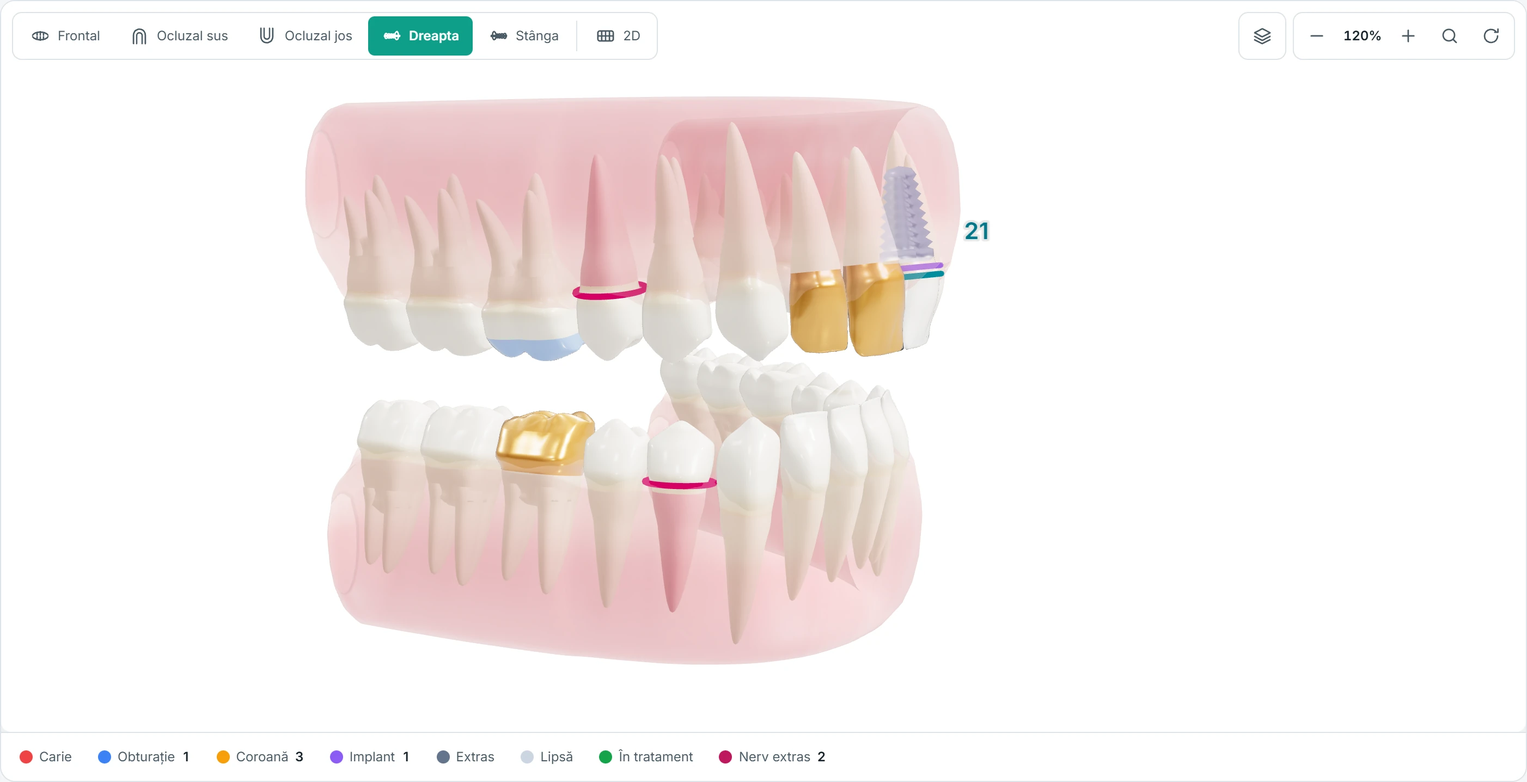
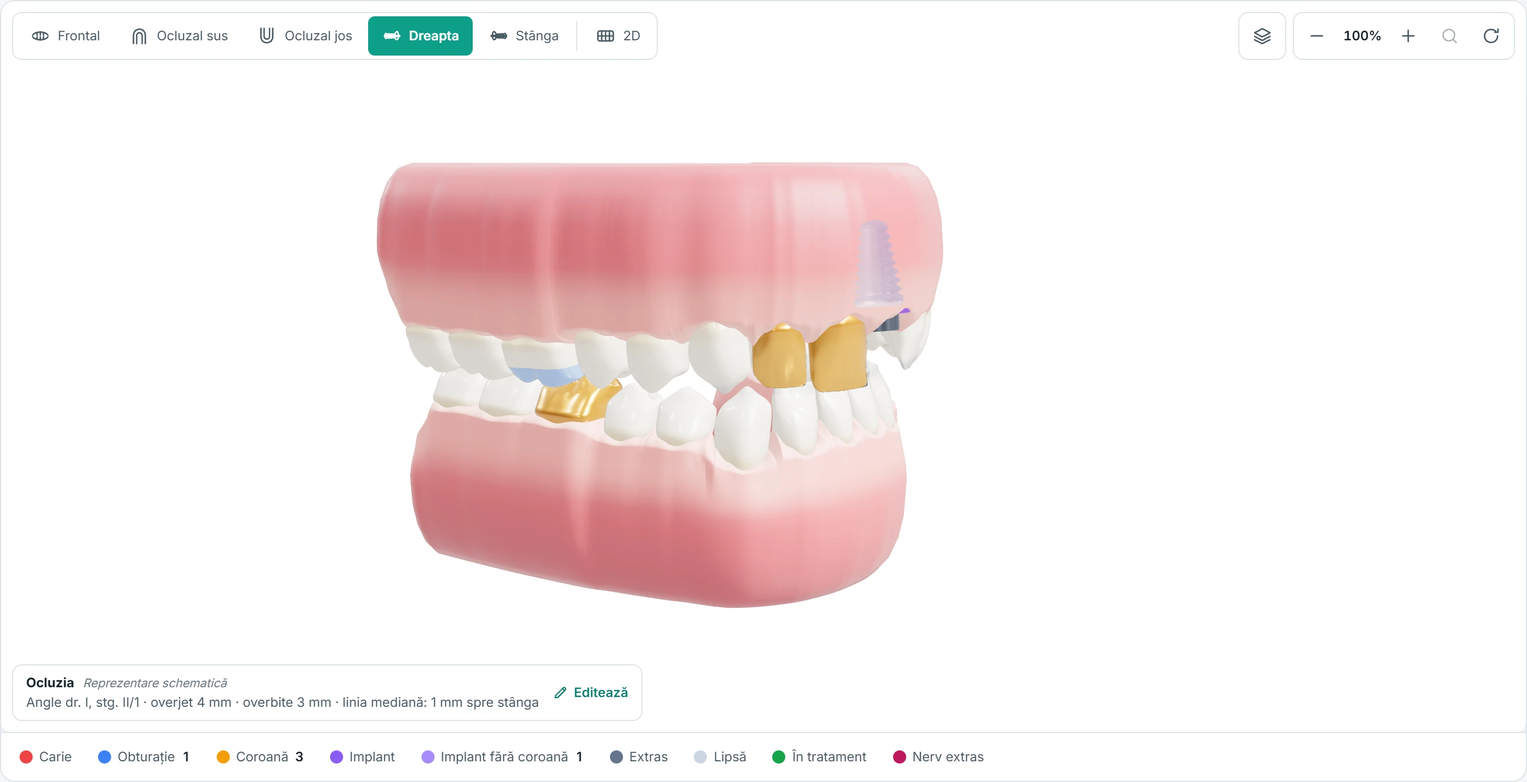
Site under DentPilot 2.12.0: occlusion in 3D on the home page and in the guide, frames reshot
Home, section 02: a fifth tile "Ocluzie in 3D" / "Окклюзия в 3D" (class Angle, overjet and overbite from the occlusal exam; with the "Ocluzie" layer the model shows schematically how the jaws close - no norm, no measurement promised); the grid takes five columns on desktop, 2+2+1 under 1020 px, one column on the phone. Details, "Programul evolueaza": a second sentence on smooth windows, menus and lists (2.10.x). Both texts are variant 1 of 2 and WAIT for Oleg's word.

Guide "Primii pasi" step 10 (RO + RU): the bite form is in the right panel of "Odontograma" while no tooth is chosen, the "Ocluzie" layer shows the jaws schematically, the "Ocluzia" line in "Date pacient" leads to the same form (as in 2.12.0, OcluziaCard / PatientCardScreen).

Frames from a stand of the demo seed on 2.12.0 (bite record in the stand's own database, not in Git): app-odontograma (the fisa tab, 3D view Dreapta, layer Ocluzie, form Ocluzia in the Dintele panel; 2880x1545) and app-odontograma-s (3D card crop with the "Ocluzia - Reprezentare schematica" strip; 2804x1436); guide-sms and guide-sms-rechemari ("ultima verificare" as dd.mm.yyyy HH:MM, footer v2.12.0; 2200x1380). Alt texts follow the new frames. sitemap lastmod 2026-11-08 for the changed pages.

Built by design/site-build/build.py, check_labels green (131 labels). Not published.

Changed region(s): [[0.1862, 0.1226, 0.6516, 0.8886], [0.0, 0.8579, 0.3413, 0.9192], [0.2792, 0.9499, 0.6516, 0.9805]]

diff --git a/ru.html b/ru.html
@@ -129,6 +129,7 @@ header{position:sticky;top:0;z-index:30;background:rgba(246,248,247,.92);backdro
 .dark .lead{color:var(--on-deep)}
 .dark .frame{border-color:rgba(255,255,255,.18);box-shadow:0 30px 80px rgba(0,0,0,.35)}
 .feat4{display:grid;grid-template-columns:repeat(4,minmax(0,1fr));gap:28px;margin-top:44px}
+.feat4.n5{grid-template-columns:repeat(5,minmax(0,1fr));gap:24px}
 .feat4 svg{color:var(--mint)}
 .feat4 h3{margin:14px 0 6px;font-size:19px;font-weight:600;color:#fff}
 .feat4 p{margin:0;font-size:16px;color:var(--on-deep)}
@@ -300,7 +301,8 @@ footer{padding:48px 0 32px;background:var(--bg)}
 .sec{padding:80px 0}.hero{padding:56px 0 0}
 .hero-top,.head2,.two,.phead,.demo-grid,.faq-grid{grid-template-columns:minmax(0,1fr)}
 .head2{margin-bottom:40px}
-.feat4,.steps4,.det,.req .det{grid-template-columns:repeat(2,minmax(0,1fr))}
+.feat4,.feat4.n5,.steps4,.det,.req .det{grid-template-columns:repeat(2,minmax(0,1fr))}
+.feat4.n5>:last-child:nth-child(odd){grid-column:1/-1}
 .pricepanel{padding:36px}.ptab-card{padding:8px 18px 18px}
 .law .two .scheme{order:2}
 }
@@ -315,7 +317,7 @@ footer{padding:48px 0 32px;background:var(--bg)}
 .tabs{flex-wrap:wrap}.tabs button{flex:1 1 40%}
 .crop img{width:185%;max-width:none;height:100%;object-fit:cover;object-position:left top;transform:translateX(var(--sx,0%))}
 .benefits{flex-direction:column;padding-top:24px}
-.feat4,.steps4,.det,.req .det,.pair{grid-template-columns:minmax(0,1fr)}
+.feat4,.feat4.n5,.steps4,.det,.req .det,.pair{grid-template-columns:minmax(0,1fr)}
 .sms{grid-template-columns:minmax(0,1fr);padding:22px}
 .r{grid-template-columns:minmax(0,1fr)}
 .item{grid-template-columns:36px minmax(0,1fr)}.item .ic{display:none}
@@ -381,7 +383,7 @@ footer{padding:48px 0 32px;background:var(--bg)}
     </div>
     <div class="show">
       <div class="show-top">
-        <div class="tabs" role="tablist" aria-label="Экраны DentPilot"><button type="button" role="tab" id="tab-calendar" aria-selected="true" aria-controls="shot-panel" tabindex="0" data-src="shots/app-calendar.webp" data-alt="Календарь дня со всеми врачами в DentPilot" data-sx="-8%">Календарь дня</button><button type="button" role="tab" id="tab-odontograma" aria-selected="false" aria-controls="shot-panel" tabindex="-1" data-src="shots/app-odontograma.webp" data-alt="3D-одонтограмма в DentPilot: режимы работы, зуб 21 с имплантом, панель зуба и сохранение всех правок разом" data-sx="-23%">3D-одонтограмма</button><button type="button" role="tab" id="tab-fisa" aria-selected="false" aria-controls="shot-panel" tabindex="-1" data-src="shots/app-fisa.webp" data-alt="Карточка пациента в DentPilot: данные, медицинские предупреждения, история" data-sx="-8%">Карточка пациента</button><button type="button" role="tab" id="tab-statistici" aria-selected="false" aria-controls="shot-panel" tabindex="-1" data-src="shots/app-statistici.webp" data-alt="Статистика клиники в DentPilot: выручка, записи, явка, загрузка" data-sx="-8%">Статистика</button></div>
+        <div class="tabs" role="tablist" aria-label="Экраны DentPilot"><button type="button" role="tab" id="tab-calendar" aria-selected="true" aria-controls="shot-panel" tabindex="0" data-src="shots/app-calendar.webp" data-alt="Календарь дня со всеми врачами в DentPilot" data-sx="-8%">Календарь дня</button><button type="button" role="tab" id="tab-odontograma" aria-selected="false" aria-controls="shot-panel" tabindex="-1" data-src="shots/app-odontograma.webp" data-alt="3D-одонтограмма в DentPilot: режимы работы, слой «Ocluzie» с положением челюстей и осмотр прикуса в панели справа" data-sx="-23%">3D-одонтограмма</button><button type="button" role="tab" id="tab-fisa" aria-selected="false" aria-controls="shot-panel" tabindex="-1" data-src="shots/app-fisa.webp" data-alt="Карточка пациента в DentPilot: данные, медицинские предупреждения, история" data-sx="-8%">Карточка пациента</button><button type="button" role="tab" id="tab-statistici" aria-selected="false" aria-controls="shot-panel" tabindex="-1" data-src="shots/app-statistici.webp" data-alt="Статистика клиники в DentPilot: выручка, записи, явка, загрузка" data-sx="-8%">Статистика</button></div>
       </div>
       <figure class="frame crop" role="tabpanel" id="shot-panel" aria-labelledby="tab-calendar">
         <img id="shot" src="shots/app-calendar.webp" alt="Календарь дня со всеми врачами в DentPilot" width="2880" height="1545" style="--sx:-8%" fetchpriority="high">
@@ -409,8 +411,8 @@ footer{padding:48px 0 32px;background:var(--bg)}
 <section class="sec dark">
   <div class="wrap">
     <div class="head2"><div><div class="eb">02 / Наглядная клиническая картина</div><h2 class="h2">Не просто формула.<br>Полная картина в 3D.</h2></div><p class="lead">Выберите режим работы, отметьте зубы и сохраните всё разом. Одонтограмма синхронизирована с формулой FDI, планом лечения и формой 043/e; рядом — пародонтограмма, 6 точек на зуб.</p></div>
-    <figure class="frame crop"><img src="shots/app-odontograma-s.webp" alt="3D-одонтограмма в DentPilot, вид сбоку с корнями: имплант на 21, коронки, два депульпированных зуба" width="2804" height="1436" style="--sx:-23%" loading="lazy"></figure>
-    <div class="feat4"><div><svg width="26" height="26" viewBox="0 0 24 24" fill="none" stroke="currentColor" stroke-width="2" stroke-linecap="round" stroke-linejoin="round" aria-hidden="true"><path d="M12 3l9 5-9 5-9-5zM3 13l9 5 9-5"/></svg><h3>Восемь режимов работы</h3><p>Осмотр, кариес, реставрация, эндодонтия, пародонт, хирургия, имплант (с коронкой или без), протез — каждый показывает свои зубы.</p></div><div><svg width="26" height="26" viewBox="0 0 24 24" fill="none" stroke="currentColor" stroke-width="2" stroke-linecap="round" stroke-linejoin="round" aria-hidden="true"><path d="M5 12.5l4.5 4.5L19 7.5"/></svg><h3>Одно сохранение</h3><p>Отметьте несколько зубов, сразу увидьте изменения в 3D и сохраните всё разом.</p></div><div><svg width="26" height="26" viewBox="0 0 24 24" fill="none" stroke="currentColor" stroke-width="2" stroke-linecap="round" stroke-linejoin="round" aria-hidden="true"><path d="M12 21a8 8 0 100-16 8 8 0 000 16zM12 9v4l2 2M10 2h4"/></svg><h3>Сравнить с визитом</h3><p>Что изменилось с прошлого визита — было и стало, в 2D и 3D.</p></div><div><svg width="26" height="26" viewBox="0 0 24 24" fill="none" stroke="currentColor" stroke-width="2" stroke-linecap="round" stroke-linejoin="round" aria-hidden="true"><path d="M20 12a8 8 0 11-2.3-5.7M20 4v5h-5"/></svg><h3>Зубы по моделям</h3><p>Эмаль, корни и десна по собственным моделям; пять ракурсов, корни по запросу.</p></div></div>
+    <figure class="frame crop"><img src="shots/app-odontograma-s.webp" alt="3D-одонтограмма в DentPilot, вид справа со слоем «Ocluzie»: схематичное положение челюстей, коронки и имплант" width="2804" height="1436" style="--sx:-23%" loading="lazy"></figure>
+    <div class="feat4 n5"><div><svg width="26" height="26" viewBox="0 0 24 24" fill="none" stroke="currentColor" stroke-width="2" stroke-linecap="round" stroke-linejoin="round" aria-hidden="true"><path d="M12 3l9 5-9 5-9-5zM3 13l9 5 9-5"/></svg><h3>Восемь режимов работы</h3><p>Осмотр, кариес, реставрация, эндодонтия, пародонт, хирургия, имплант (с коронкой или без), протез — каждый показывает свои зубы.</p></div><div><svg width="26" height="26" viewBox="0 0 24 24" fill="none" stroke="currentColor" stroke-width="2" stroke-linecap="round" stroke-linejoin="round" aria-hidden="true"><path d="M5 12.5l4.5 4.5L19 7.5"/></svg><h3>Одно сохранение</h3><p>Отметьте несколько зубов, сразу увидьте изменения в 3D и сохраните всё разом.</p></div><div><svg width="26" height="26" viewBox="0 0 24 24" fill="none" stroke="currentColor" stroke-width="2" stroke-linecap="round" stroke-linejoin="round" aria-hidden="true"><path d="M12 21a8 8 0 100-16 8 8 0 000 16zM12 9v4l2 2M10 2h4"/></svg><h3>Сравнить с визитом</h3><p>Что изменилось с прошлого визита — было и стало, в 2D и 3D.</p></div><div><svg width="26" height="26" viewBox="0 0 24 24" fill="none" stroke="currentColor" stroke-width="2" stroke-linecap="round" stroke-linejoin="round" aria-hidden="true"><path d="M20 12a8 8 0 11-2.3-5.7M20 4v5h-5"/></svg><h3>Зубы по моделям</h3><p>Эмаль, корни и десна по собственным моделям; пять ракурсов, корни по запросу.</p></div><div><svg width="26" height="26" viewBox="0 0 24 24" fill="none" stroke="currentColor" stroke-width="2" stroke-linecap="round" stroke-linejoin="round" aria-hidden="true"><path d="M4 9.5c2.5-4.5 13.5-4.5 16 0M4 14.5c2.5 4.5 13.5 4.5 16 0M7 12h10"/></svg><h3>Окклюзия в 3D</h3><p>Класс Angle, overjet и overbite из осмотра прикуса: со слоем «Ocluzie» модель схематично показывает, как смыкаются челюсти.</p></div></div>
   </div>
 </section>
 
@@ -433,7 +435,7 @@ footer{padding:48px 0 32px;background:var(--bg)}
 <section class="sec" style="padding-top:0">
   <div class="wrap">
     <div class="det-head"><h2 class="h3">Детали, из которых складывается порядок</h2><span class="det-note">Все основные функции — в подписке</span></div>
-    <div class="det"><div class="c"><svg width="24" height="24" viewBox="0 0 24 24" fill="none" stroke="currentColor" stroke-width="2" stroke-linecap="round" stroke-linejoin="round" aria-hidden="true"><path d="M3 5h18v11H3zM8 20h8M12 16v4"/></svg><h3>Второй компьютер</h3><p>Регистратура и кабинет работают в одном журнале по сети клиники.</p></div><div class="c"><svg width="24" height="24" viewBox="0 0 24 24" fill="none" stroke="currentColor" stroke-width="2" stroke-linecap="round" stroke-linejoin="round" aria-hidden="true"><path d="M12 3l8 3v6c0 4.5-3.4 8.2-8 9-4.6-.8-8-4.5-8-9V6z"/></svg><h3>У каждого — своя роль</h3><p>Директор, регистратура и врач. У каждого свой PIN и журнал доступа.</p></div><div class="c"><svg width="24" height="24" viewBox="0 0 24 24" fill="none" stroke="currentColor" stroke-width="2" stroke-linecap="round" stroke-linejoin="round" aria-hidden="true"><path d="M9 4h6v3H9zM7 5.5H5v15h14v-15h-2M9 12h6M9 16h4"/></svg><h3>Анамнез без пробелов</h3><p>12 заболеваний или «ничего из перечисленного», аллергии и лекарства. Печать на языке пациента.</p></div><div class="c"><svg width="24" height="24" viewBox="0 0 24 24" fill="none" stroke="currentColor" stroke-width="2" stroke-linecap="round" stroke-linejoin="round" aria-hidden="true"><path d="M4 5h16v14H4zM4 15l4-4 4 4 3-3 5 5"/></svg><h3>Документы и снимки</h3><p>Снимки, согласия, направления — прикреплены к карточке, с галереей.</p></div><div class="c"><svg width="24" height="24" viewBox="0 0 24 24" fill="none" stroke="currentColor" stroke-width="2" stroke-linecap="round" stroke-linejoin="round" aria-hidden="true"><path d="M4 20h4L19 9l-4-4L4 16z"/></svg><h3>Журнал посещений</h3><p>Жалобы, статус, диагноз, лечение — по рубрикам формы 043/e.</p></div><div class="c"><svg width="24" height="24" viewBox="0 0 24 24" fill="none" stroke="currentColor" stroke-width="2" stroke-linecap="round" stroke-linejoin="round" aria-hidden="true"><path d="M20 12a8 8 0 11-2.3-5.7M20 4v5h-5"/></svg><h3>Программа развивается</h3><p>Обновления приходят автоматически и входят в подписку.</p></div></div>
+    <div class="det"><div class="c"><svg width="24" height="24" viewBox="0 0 24 24" fill="none" stroke="currentColor" stroke-width="2" stroke-linecap="round" stroke-linejoin="round" aria-hidden="true"><path d="M3 5h18v11H3zM8 20h8M12 16v4"/></svg><h3>Второй компьютер</h3><p>Регистратура и кабинет работают в одном журнале по сети клиники.</p></div><div class="c"><svg width="24" height="24" viewBox="0 0 24 24" fill="none" stroke="currentColor" stroke-width="2" stroke-linecap="round" stroke-linejoin="round" aria-hidden="true"><path d="M12 3l8 3v6c0 4.5-3.4 8.2-8 9-4.6-.8-8-4.5-8-9V6z"/></svg><h3>У каждого — своя роль</h3><p>Директор, регистратура и врач. У каждого свой PIN и журнал доступа.</p></div><div class="c"><svg width="24" height="24" viewBox="0 0 24 24" fill="none" stroke="currentColor" stroke-width="2" stroke-linecap="round" stroke-linejoin="round" aria-hidden="true"><path d="M9 4h6v3H9zM7 5.5H5v15h14v-15h-2M9 12h6M9 16h4"/></svg><h3>Анамнез без пробелов</h3><p>12 заболеваний или «ничего из перечисленного», аллергии и лекарства. Печать на языке пациента.</p></div><div class="c"><svg width="24" height="24" viewBox="0 0 24 24" fill="none" stroke="currentColor" stroke-width="2" stroke-linecap="round" stroke-linejoin="round" aria-hidden="true"><path d="M4 5h16v14H4zM4 15l4-4 4 4 3-3 5 5"/></svg><h3>Документы и снимки</h3><p>Снимки, согласия, направления — прикреплены к карточке, с галереей.</p></div><div class="c"><svg width="24" height="24" viewBox="0 0 24 24" fill="none" stroke="currentColor" stroke-width="2" stroke-linecap="round" stroke-linejoin="round" aria-hidden="true"><path d="M4 20h4L19 9l-4-4L4 16z"/></svg><h3>Журнал посещений</h3><p>Жалобы, статус, диагноз, лечение — по рубрикам формы 043/e.</p></div><div class="c"><svg width="24" height="24" viewBox="0 0 24 24" fill="none" stroke="currentColor" stroke-width="2" stroke-linecap="round" stroke-linejoin="round" aria-hidden="true"><path d="M20 12a8 8 0 11-2.3-5.7M20 4v5h-5"/></svg><h3>Программа развивается</h3><p>Обновления приходят автоматически и входят в подписку. Окна, меню и списки появляются плавно, без скачков.</p></div></div>
     <div class="sms">
       <span class="ic"><svg width="24" height="24" viewBox="0 0 24 24" fill="none" stroke="currentColor" stroke-width="2" stroke-linecap="round" stroke-linejoin="round" aria-hidden="true"><path d="M4 5h16v11H9l-5 4z"/></svg></span>
       <div><h3>SMS-напоминания</h3><p>Накануне и в день визита, от имени клиники, — и напоминание о плановом контроле из Rechemări, кнопкой или автоматически.</p></div>

diff --git a/index.html b/index.html
@@ -129,6 +129,7 @@ header{position:sticky;top:0;z-index:30;background:rgba(246,248,247,.92);backdro
 .dark .lead{color:var(--on-deep)}
 .dark .frame{border-color:rgba(255,255,255,.18);box-shadow:0 30px 80px rgba(0,0,0,.35)}
 .feat4{display:grid;grid-template-columns:repeat(4,minmax(0,1fr));gap:28px;margin-top:44px}
+.feat4.n5{grid-template-columns:repeat(5,minmax(0,1fr));gap:24px}
 .feat4 svg{color:var(--mint)}
 .feat4 h3{margin:14px 0 6px;font-size:19px;font-weight:600;color:#fff}
 .feat4 p{margin:0;font-size:16px;color:var(--on-deep)}
@@ -300,7 +301,8 @@ footer{padding:48px 0 32px;background:var(--bg)}
 .sec{padding:80px 0}.hero{padding:56px 0 0}
 .hero-top,.head2,.two,.phead,.demo-grid,.faq-grid{grid-template-columns:minmax(0,1fr)}
 .head2{margin-bottom:40px}
-.feat4,.steps4,.det,.req .det{grid-template-columns:repeat(2,minmax(0,1fr))}
+.feat4,.feat4.n5,.steps4,.det,.req .det{grid-template-columns:repeat(2,minmax(0,1fr))}
+.feat4.n5>:last-child:nth-child(odd){grid-column:1/-1}
 .pricepanel{padding:36px}.ptab-card{padding:8px 18px 18px}
 .law .two .scheme{order:2}
 }
@@ -315,7 +317,7 @@ footer{padding:48px 0 32px;background:var(--bg)}
 .tabs{flex-wrap:wrap}.tabs button{flex:1 1 40%}
 .crop img{width:185%;max-width:none;height:100%;object-fit:cover;object-position:left top;transform:translateX(var(--sx,0%))}
 .benefits{flex-direction:column;padding-top:24px}
-.feat4,.steps4,.det,.req .det,.pair{grid-template-columns:minmax(0,1fr)}
+.feat4,.feat4.n5,.steps4,.det,.req .det,.pair{grid-template-columns:minmax(0,1fr)}
 .sms{grid-template-columns:minmax(0,1fr);padding:22px}
 .r{grid-template-columns:minmax(0,1fr)}
 .item{grid-template-columns:36px minmax(0,1fr)}.item .ic{display:none}
@@ -381,7 +383,7 @@ footer{padding:48px 0 32px;background:var(--bg)}
     </div>
     <div class="show">
       <div class="show-top">
-        <div class="tabs" role="tablist" aria-label="Ecrane DentPilot"><button type="button" role="tab" id="tab-calendar" aria-selected="true" aria-controls="shot-panel" tabindex="0" data-src="shots/app-calendar.webp" data-alt="Calendarul zilei cu toți medicii în DentPilot" data-sx="-8%">Calendarul zilei</button><button type="button" role="tab" id="tab-odontograma" aria-selected="false" aria-controls="shot-panel" tabindex="-1" data-src="shots/app-odontograma.webp" data-alt="Odontograma 3D în DentPilot: moduri de lucru, dintele 21 cu implant, panoul dintelui și salvarea tuturor modificărilor odată" data-sx="-23%">Odontogramă 3D</button><button type="button" role="tab" id="tab-fisa" aria-selected="false" aria-controls="shot-panel" tabindex="-1" data-src="shots/app-fisa.webp" data-alt="Fișa pacientului în DentPilot: date, atenționări medicale, istoric" data-sx="-8%">Fișa pacientului</button><button type="button" role="tab" id="tab-statistici" aria-selected="false" aria-controls="shot-panel" tabindex="-1" data-src="shots/app-statistici.webp" data-alt="Statisticile clinicii în DentPilot: încasări, programări, prezență, ocupare" data-sx="-8%">Statistici</button></div>
+        <div class="tabs" role="tablist" aria-label="Ecrane DentPilot"><button type="button" role="tab" id="tab-calendar" aria-selected="true" aria-controls="shot-panel" tabindex="0" data-src="shots/app-calendar.webp" data-alt="Calendarul zilei cu toți medicii în DentPilot" data-sx="-8%">Calendarul zilei</button><button type="button" role="tab" id="tab-odontograma" aria-selected="false" aria-controls="shot-panel" tabindex="-1" data-src="shots/app-odontograma.webp" data-alt="Odontograma 3D în DentPilot: moduri de lucru, stratul «Ocluzie» cu poziția maxilarelor și examenul ocluzal în panoul din dreapta" data-sx="-23%">Odontogramă 3D</button><button type="button" role="tab" id="tab-fisa" aria-selected="false" aria-controls="shot-panel" tabindex="-1" data-src="shots/app-fisa.webp" data-alt="Fișa pacientului în DentPilot: date, atenționări medicale, istoric" data-sx="-8%">Fișa pacientului</button><button type="button" role="tab" id="tab-statistici" aria-selected="false" aria-controls="shot-panel" tabindex="-1" data-src="shots/app-statistici.webp" data-alt="Statisticile clinicii în DentPilot: încasări, programări, prezență, ocupare" data-sx="-8%">Statistici</button></div>
       </div>
       <figure class="frame crop" role="tabpanel" id="shot-panel" aria-labelledby="tab-calendar">
         <img id="shot" src="shots/app-calendar.webp" alt="Calendarul zilei cu toți medicii în DentPilot" width="2880" height="1545" style="--sx:-8%" fetchpriority="high">
@@ -409,8 +411,8 @@ footer{padding:48px 0 32px;background:var(--bg)}
 <section class="sec dark">
   <div class="wrap">
     <div class="head2"><div><div class="eb">02 / Tabloul clinic complet</div><h2 class="h2">Nu doar o formulă.<br>Imaginea completă în 3D.</h2></div><p class="lead">Alegeți modul de lucru, marcați dinții și salvați totul o dată. Odontograma e sincronizată cu formula FDI, planul de tratament și fișa 043/e; parodontograma, cu 6 puncte pe dinte, e alături.</p></div>
-    <figure class="frame crop"><img src="shots/app-odontograma-s.webp" alt="Odontograma 3D în DentPilot, vedere laterală cu rădăcini: implant pe 21, coroane, doi dinți devitali" width="2804" height="1436" style="--sx:-23%" loading="lazy"></figure>
-    <div class="feat4"><div><svg width="26" height="26" viewBox="0 0 24 24" fill="none" stroke="currentColor" stroke-width="2" stroke-linecap="round" stroke-linejoin="round" aria-hidden="true"><path d="M12 3l9 5-9 5-9-5zM3 13l9 5 9-5"/></svg><h3>Opt moduri de lucru</h3><p>Examinare, carii, restaurare, endodonție, parodonțiu, chirurgie, implant (cu sau fără coroană), proteză — fiecare arată dinții lui.</p></div><div><svg width="26" height="26" viewBox="0 0 24 24" fill="none" stroke="currentColor" stroke-width="2" stroke-linecap="round" stroke-linejoin="round" aria-hidden="true"><path d="M5 12.5l4.5 4.5L19 7.5"/></svg><h3>O singură salvare</h3><p>Marcați mai mulți dinți, vedeți schimbările imediat în 3D și salvați totul o dată.</p></div><div><svg width="26" height="26" viewBox="0 0 24 24" fill="none" stroke="currentColor" stroke-width="2" stroke-linecap="round" stroke-linejoin="round" aria-hidden="true"><path d="M12 21a8 8 0 100-16 8 8 0 000 16zM12 9v4l2 2M10 2h4"/></svg><h3>Compară cu vizita</h3><p>Ce s-a schimbat de la vizita trecută — era și acum, în 2D și 3D.</p></div><div><svg width="26" height="26" viewBox="0 0 24 24" fill="none" stroke="currentColor" stroke-width="2" stroke-linecap="round" stroke-linejoin="round" aria-hidden="true"><path d="M20 12a8 8 0 11-2.3-5.7M20 4v5h-5"/></svg><h3>Dinți modelați</h3><p>Smalț, rădăcini și gingie modelate; cinci unghiuri, rădăcinile la cerere.</p></div></div>
+    <figure class="frame crop"><img src="shots/app-odontograma-s.webp" alt="Odontograma 3D în DentPilot, vedere din dreapta cu stratul «Ocluzie»: poziția schematică a maxilarelor, coroane și implant" width="2804" height="1436" style="--sx:-23%" loading="lazy"></figure>
+    <div class="feat4 n5"><div><svg width="26" height="26" viewBox="0 0 24 24" fill="none" stroke="currentColor" stroke-width="2" stroke-linecap="round" stroke-linejoin="round" aria-hidden="true"><path d="M12 3l9 5-9 5-9-5zM3 13l9 5 9-5"/></svg><h3>Opt moduri de lucru</h3><p>Examinare, carii, restaurare, endodonție, parodonțiu, chirurgie, implant (cu sau fără coroană), proteză — fiecare arată dinții lui.</p></div><div><svg width="26" height="26" viewBox="0 0 24 24" fill="none" stroke="currentColor" stroke-width="2" stroke-linecap="round" stroke-linejoin="round" aria-hidden="true"><path d="M5 12.5l4.5 4.5L19 7.5"/></svg><h3>O singură salvare</h3><p>Marcați mai mulți dinți, vedeți schimbările imediat în 3D și salvați totul o dată.</p></div><div><svg width="26" height="26" viewBox="0 0 24 24" fill="none" stroke="currentColor" stroke-width="2" stroke-linecap="round" stroke-linejoin="round" aria-hidden="true"><path d="M12 21a8 8 0 100-16 8 8 0 000 16zM12 9v4l2 2M10 2h4"/></svg><h3>Compară cu vizita</h3><p>Ce s-a schimbat de la vizita trecută — era și acum, în 2D și 3D.</p></div><div><svg width="26" height="26" viewBox="0 0 24 24" fill="none" stroke="currentColor" stroke-width="2" stroke-linecap="round" stroke-linejoin="round" aria-hidden="true"><path d="M20 12a8 8 0 11-2.3-5.7M20 4v5h-5"/></svg><h3>Dinți modelați</h3><p>Smalț, rădăcini și gingie modelate; cinci unghiuri, rădăcinile la cerere.</p></div><div><svg width="26" height="26" viewBox="0 0 24 24" fill="none" stroke="currentColor" stroke-width="2" stroke-linecap="round" stroke-linejoin="round" aria-hidden="true"><path d="M4 9.5c2.5-4.5 13.5-4.5 16 0M4 14.5c2.5 4.5 13.5 4.5 16 0M7 12h10"/></svg><h3>Ocluzie în 3D</h3><p>Clasa Angle, overjet și overbite din examenul ocluzal: cu stratul «Ocluzie», modelul arată schematic cum se închid maxilarele.</p></div></div>
   </div>
 </section>
 
@@ -433,7 +435,7 @@ footer{padding:48px 0 32px;background:var(--bg)}
 <section class="sec" style="padding-top:0">
   <div class="wrap">
     <div class="det-head"><h2 class="h3">Detaliile din care se face ordinea</h2><span class="det-note">Toate funcțiile de bază — în abonament</span></div>
-    <div class="det"><div class="c"><svg width="24" height="24" viewBox="0 0 24 24" fill="none" stroke="currentColor" stroke-width="2" stroke-linecap="round" stroke-linejoin="round" aria-hidden="true"><path d="M3 5h18v11H3zM8 20h8M12 16v4"/></svg><h3>Al doilea computer</h3><p>Recepția și cabinetul lucrează în același registru, prin rețeaua clinicii.</p></div><div class="c"><svg width="24" height="24" viewBox="0 0 24 24" fill="none" stroke="currentColor" stroke-width="2" stroke-linecap="round" stroke-linejoin="round" aria-hidden="true"><path d="M12 3l8 3v6c0 4.5-3.4 8.2-8 9-4.6-.8-8-4.5-8-9V6z"/></svg><h3>Fiecare cu rolul său</h3><p>Director, recepție și medic — PIN separat și jurnal de acces.</p></div><div class="c"><svg width="24" height="24" viewBox="0 0 24 24" fill="none" stroke="currentColor" stroke-width="2" stroke-linecap="round" stroke-linejoin="round" aria-hidden="true"><path d="M9 4h6v3H9zM7 5.5H5v15h14v-15h-2M9 12h6M9 16h4"/></svg><h3>Anamneză fără goluri</h3><p>12 afecțiuni sau „niciuna”, alergii și medicație. Tipărită în limba pacientului.</p></div><div class="c"><svg width="24" height="24" viewBox="0 0 24 24" fill="none" stroke="currentColor" stroke-width="2" stroke-linecap="round" stroke-linejoin="round" aria-hidden="true"><path d="M4 5h16v14H4zM4 15l4-4 4 4 3-3 5 5"/></svg><h3>Documente și radiografii</h3><p>Radiografii, acorduri, trimiteri — atașate la fișă, cu galerie.</p></div><div class="c"><svg width="24" height="24" viewBox="0 0 24 24" fill="none" stroke="currentColor" stroke-width="2" stroke-linecap="round" stroke-linejoin="round" aria-hidden="true"><path d="M4 20h4L19 9l-4-4L4 16z"/></svg><h3>Jurnalul vizitelor</h3><p>Acuze, status, diagnostic, tratament — pe rubricile fișei 043/e.</p></div><div class="c"><svg width="24" height="24" viewBox="0 0 24 24" fill="none" stroke="currentColor" stroke-width="2" stroke-linecap="round" stroke-linejoin="round" aria-hidden="true"><path d="M20 12a8 8 0 11-2.3-5.7M20 4v5h-5"/></svg><h3>Programul evoluează</h3><p>Actualizările vin automat și intră în abonament.</p></div></div>
+    <div class="det"><div class="c"><svg width="24" height="24" viewBox="0 0 24 24" fill="none" stroke="currentColor" stroke-width="2" stroke-linecap="round" stroke-linejoin="round" aria-hidden="true"><path d="M3 5h18v11H3zM8 20h8M12 16v4"/></svg><h3>Al doilea computer</h3><p>Recepția și cabinetul lucrează în același registru, prin rețeaua clinicii.</p></div><div class="c"><svg width="24" height="24" viewBox="0 0 24 24" fill="none" stroke="currentColor" stroke-width="2" stroke-linecap="round" stroke-linejoin="round" aria-hidden="true"><path d="M12 3l8 3v6c0 4.5-3.4 8.2-8 9-4.6-.8-8-4.5-8-9V6z"/></svg><h3>Fiecare cu rolul său</h3><p>Director, recepție și medic — PIN separat și jurnal de acces.</p></div><div class="c"><svg width="24" height="24" viewBox="0 0 24 24" fill="none" stroke="currentColor" stroke-width="2" stroke-linecap="round" stroke-linejoin="round" aria-hidden="true"><path d="M9 4h6v3H9zM7 5.5H5v15h14v-15h-2M9 12h6M9 16h4"/></svg><h3>Anamneză fără goluri</h3><p>12 afecțiuni sau „niciuna”, alergii și medicație. Tipărită în limba pacientului.</p></div><div class="c"><svg width="24" height="24" viewBox="0 0 24 24" fill="none" stroke="currentColor" stroke-width="2" stroke-linecap="round" stroke-linejoin="round" aria-hidden="true"><path d="M4 5h16v14H4zM4 15l4-4 4 4 3-3 5 5"/></svg><h3>Documente și radiografii</h3><p>Radiografii, acorduri, trimiteri — atașate la fișă, cu galerie.</p></div><div class="c"><svg width="24" height="24" viewBox="0 0 24 24" fill="none" stroke="currentColor" stroke-width="2" stroke-linecap="round" stroke-linejoin="round" aria-hidden="true"><path d="M4 20h4L19 9l-4-4L4 16z"/></svg><h3>Jurnalul vizitelor</h3><p>Acuze, status, diagnostic, tratament — pe rubricile fișei 043/e.</p></div><div class="c"><svg width="24" height="24" viewBox="0 0 24 24" fill="none" stroke="currentColor" stroke-width="2" stroke-linecap="round" stroke-linejoin="round" aria-hidden="true"><path d="M20 12a8 8 0 11-2.3-5.7M20 4v5h-5"/></svg><h3>Programul evoluează</h3><p>Actualizările vin automat și intră în abonament. Ferestrele, meniurile și listele apar lin, fără sărituri.</p></div></div>
     <div class="sms">
       <span class="ic"><svg width="24" height="24" viewBox="0 0 24 24" fill="none" stroke="currentColor" stroke-width="2" stroke-linecap="round" stroke-linejoin="round" aria-hidden="true"><path d="M4 5h16v11H9l-5 4z"/></svg></span>
       <div><h3>Memento-uri SMS</h3><p>Cu o zi înainte și în ziua vizitei, în numele clinicii — și reamintirea controlului periodic din Rechemări, cu un buton sau automat.</p></div>

diff --git a/primii-pasi-ru.html b/primii-pasi-ru.html
@@ -128,6 +128,7 @@ header{position:sticky;top:0;z-index:30;background:rgba(246,248,247,.92);backdro
 .dark .lead{color:var(--on-deep)}
 .dark .frame{border-color:rgba(255,255,255,.18);box-shadow:0 30px 80px rgba(0,0,0,.35)}
 .feat4{display:grid;grid-template-columns:repeat(4,minmax(0,1fr));gap:28px;margin-top:44px}
+.feat4.n5{grid-template-columns:repeat(5,minmax(0,1fr));gap:24px}
 .feat4 svg{color:var(--mint)}
 .feat4 h3{margin:14px 0 6px;font-size:19px;font-weight:600;color:#fff}
 .feat4 p{margin:0;font-size:16px;color:var(--on-deep)}
@@ -299,7 +300,8 @@ footer{padding:48px 0 32px;background:var(--bg)}
 .sec{padding:80px 0}.hero{padding:56px 0 0}
 .hero-top,.head2,.two,.phead,.demo-grid,.faq-grid{grid-template-columns:minmax(0,1fr)}
 .head2{margin-bottom:40px}
-.feat4,.steps4,.det,.req .det{grid-template-columns:repeat(2,minmax(0,1fr))}
+.feat4,.feat4.n5,.steps4,.det,.req .det{grid-template-columns:repeat(2,minmax(0,1fr))}
+.feat4.n5>:last-child:nth-child(odd){grid-column:1/-1}
 .pricepanel{padding:36px}.ptab-card{padding:8px 18px 18px}
 .law .two .scheme{order:2}
 }
@@ -314,7 +316,7 @@ footer{padding:48px 0 32px;background:var(--bg)}
 .tabs{flex-wrap:wrap}.tabs button{flex:1 1 40%}
 .crop img{width:185%;max-width:none;height:100%;object-fit:cover;object-position:left top;transform:translateX(var(--sx,0%))}
 .benefits{flex-direction:column;padding-top:24px}
-.feat4,.steps4,.det,.req .det,.pair{grid-template-columns:minmax(0,1fr)}
+.feat4,.feat4.n5,.steps4,.det,.req .det,.pair{grid-template-columns:minmax(0,1fr)}
 .sms{grid-template-columns:minmax(0,1fr);padding:22px}
 .r{grid-template-columns:minmax(0,1fr)}
 .item{grid-template-columns:36px minmax(0,1fr)}.item .ic{display:none}
@@ -523,7 +525,7 @@ footer{padding:48px 0 32px;background:var(--bg)}
 <h3>Пациент пришёл</h3>
 <p>Клик по записи (или правый клик) — и по очереди <span class="ui">A venit</span>, <span class="ui">În cabinet</span> и <span class="ui">Finalizat</span>; <span class="ui">În cabinet</span> можно пропустить. Если пациент не пришёл — <span class="ui">Nu a venit</span>.</p>
 <h3>Карточка пациента</h3>
-<ul><li><span class="ui">Date pacient</span> › <span class="ui">Anamneză</span> — 12 заболеваний или <span class="ui">Niciuna dintre afecțiunile de mai sus</span>, аллергии и лекарства; <span class="ui">Formular pentru pacient</span> печатает анкету на языке пациента;</li><li><span class="ui">Date pacient</span> › <span class="ui">Informare / acord — tipărire</span> — уведомление об обработке данных (Закон 195);</li><li><span class="ui">Date pacient</span> › <span class="ui">Ocluzia</span> — окклюзия (класс Angle, overjet, overbite, средняя линия); печатается в форме 043/e;</li><li><span class="ui">Plan și plăți</span> — процедуры с ценами, <span class="ui">Acord informat</span> на план (<span class="ui">Tipărește</span>) и <span class="ui">Înregistrează plata</span>; баланс считается сам по завершённым процедурам;</li><li><span class="ui">Vizite</span> › <span class="ui">Consultație</span> — жалобы, диагноз, лечение; дневник попадает в форму 043/e;</li><li><span class="ui">Odontogramă</span> и <span class="ui">Parodontogramă</span> — состояние зубов и дёсен; <span class="ui">Documente</span> — бланки для печати и подписанные сканы;</li><li><span class="ui">Fișa 043/e</span> в шапке карточки — печатается заполненной.</li></ul>
+<ul><li><span class="ui">Date pacient</span> › <span class="ui">Anamneză</span> — 12 заболеваний или <span class="ui">Niciuna dintre afecțiunile de mai sus</span>, аллергии и лекарства; <span class="ui">Formular pentru pacient</span> печатает анкету на языке пациента;</li><li><span class="ui">Date pacient</span> › <span class="ui">Informare / acord — tipărire</span> — уведомление об обработке данных (Закон 195);</li><li><span class="ui">Odontogramă</span> › <span class="ui">Ocluzia</span> — окклюзия (класс Angle, overjet, overbite, средняя линия) в панели справа, пока не выбран зуб; со слоем <span class="ui">Ocluzie</span> 3D-модель схематично показывает положение челюстей; строка <span class="ui">Ocluzia</span> в <span class="ui">Date pacient</span> ведёт к той же форме; печатается в форме 043/e;</li><li><span class="ui">Plan și plăți</span> — процедуры с ценами, <span class="ui">Acord informat</span> на план (<span class="ui">Tipărește</span>) и <span class="ui">Înregistrează plata</span>; баланс считается сам по завершённым процедурам;</li><li><span class="ui">Vizite</span> › <span class="ui">Consultație</span> — жалобы, диагноз, лечение; дневник попадает в форму 043/e;</li><li><span class="ui">Odontogramă</span> и <span class="ui">Parodontogramă</span> — состояние зубов и дёсен; <span class="ui">Documente</span> — бланки для печати и подписанные сканы;</li><li><span class="ui">Fișa 043/e</span> в шапке карточки — печатается заполненной.</li></ul>
 <figure class="frame gshot"><img src="shots/guide-pacient.webp" alt="Карточка пациента DentPilot™: план лечения и платежи" width="2200" height="1380" loading="lazy"></figure>
 </section>
 <section class="gs" id="rechemari"><div class="gh"><span class="gn">11</span><h2>Rechemări: пациенты возвращаются на контроль</h2></div>

diff --git a/primii-pasi.html b/primii-pasi.html
@@ -128,6 +128,7 @@ header{position:sticky;top:0;z-index:30;background:rgba(246,248,247,.92);backdro
 .dark .lead{color:var(--on-deep)}
 .dark .frame{border-color:rgba(255,255,255,.18);box-shadow:0 30px 80px rgba(0,0,0,.35)}
 .feat4{display:grid;grid-template-columns:repeat(4,minmax(0,1fr));gap:28px;margin-top:44px}
+.feat4.n5{grid-template-columns:repeat(5,minmax(0,1fr));gap:24px}
 .feat4 svg{color:var(--mint)}
 .feat4 h3{margin:14px 0 6px;font-size:19px;font-weight:600;color:#fff}
 .feat4 p{margin:0;font-size:16px;color:var(--on-deep)}
@@ -299,7 +300,8 @@ footer{padding:48px 0 32px;background:var(--bg)}
 .sec{padding:80px 0}.hero{padding:56px 0 0}
 .hero-top,.head2,.two,.phead,.demo-grid,.faq-grid{grid-template-columns:minmax(0,1fr)}
 .head2{margin-bottom:40px}
-.feat4,.steps4,.det,.req .det{grid-template-columns:repeat(2,minmax(0,1fr))}
+.feat4,.feat4.n5,.steps4,.det,.req .det{grid-template-columns:repeat(2,minmax(0,1fr))}
+.feat4.n5>:last-child:nth-child(odd){grid-column:1/-1}
 .pricepanel{padding:36px}.ptab-card{padding:8px 18px 18px}
 .law .two .scheme{order:2}
 }
@@ -314,7 +316,7 @@ footer{padding:48px 0 32px;background:var(--bg)}
 .tabs{flex-wrap:wrap}.tabs button{flex:1 1 40%}
 .crop img{width:185%;max-width:none;height:100%;object-fit:cover;object-position:left top;transform:translateX(var(--sx,0%))}
 .benefits{flex-direction:column;padding-top:24px}
-.feat4,.steps4,.det,.req .det,.pair{grid-template-columns:minmax(0,1fr)}
+.feat4,.feat4.n5,.steps4,.det,.req .det,.pair{grid-template-columns:minmax(0,1fr)}
 .sms{grid-template-columns:minmax(0,1fr);padding:22px}
 .r{grid-template-columns:minmax(0,1fr)}
 .item{grid-template-columns:36px minmax(0,1fr)}.item .ic{display:none}
@@ -523,7 +525,7 @@ footer{padding:48px 0 32px;background:var(--bg)}
 <h3>Pacientul vine</h3>
 <p>Clic pe programare (sau clic dreapta) și apăsați pe rând <span class="ui">A venit</span>, <span class="ui">În cabinet</span> și <span class="ui">Finalizat</span>; <span class="ui">În cabinet</span> se poate sări. Dacă pacientul lipsește — <span class="ui">Nu a venit</span>.</p>
 <h3>Fișa pacientului</h3>
-<ul><li><span class="ui">Date pacient</span> › <span class="ui">Anamneză</span> — 12 afecțiuni sau <span class="ui">Niciuna dintre afecțiunile de mai sus</span>, alergii și medicație; <span class="ui">Formular pentru pacient</span> tipărește chestionarul în limba lui;</li><li><span class="ui">Date pacient</span> › <span class="ui">Informare / acord — tipărire</span> — informarea privind prelucrarea datelor (Legea 195);</li><li><span class="ui">Date pacient</span> › <span class="ui">Ocluzia</span> — examenul ocluzal (clasa Angle, overjet, overbite, linia mediană); se tipărește în fișa 043/e;</li><li><span class="ui">Plan și plăți</span> — procedurile cu prețuri, <span class="ui">Acord informat</span> pentru plan (<span class="ui">Tipărește</span>) și <span class="ui">Înregistrează plata</span>; soldul se calculează singur din procedurile finalizate;</li><li><span class="ui">Vizite</span> › <span class="ui">Consultație</span> — acuze, diagnostic, tratament; jurnalul ajunge în fișa 043/e;</li><li><span class="ui">Odontogramă</span> și <span class="ui">Parodontogramă</span> — starea dinților și a gingiilor; <span class="ui">Documente</span> — formularele de tipărit și scanările semnate;</li><li><span class="ui">Fișa 043/e</span> din capul fișei — se tipărește completată.</li></ul>
+<ul><li><span class="ui">Date pacient</span> › <span class="ui">Anamneză</span> — 12 afecțiuni sau <span class="ui">Niciuna dintre afecțiunile de mai sus</span>, alergii și medicație; <span class="ui">Formular pentru pacient</span> tipărește chestionarul în limba lui;</li><li><span class="ui">Date pacient</span> › <span class="ui">Informare / acord — tipărire</span> — informarea privind prelucrarea datelor (Legea 195);</li><li><span class="ui">Odontogramă</span> › <span class="ui">Ocluzia</span> — examenul ocluzal (clasa Angle, overjet, overbite, linia mediană) în panoul din dreapta, cât timp nu e ales niciun dinte; cu stratul <span class="ui">Ocluzie</span> modelul 3D arată schematic poziția maxilarelor; rândul <span class="ui">Ocluzia</span> din <span class="ui">Date pacient</span> duce la același formular; se tipărește în fișa 043/e;</li><li><span class="ui">Plan și plăți</span> — procedurile cu prețuri, <span class="ui">Acord informat</span> pentru plan (<span class="ui">Tipărește</span>) și <span class="ui">Înregistrează plata</span>; soldul se calculează singur din procedurile finalizate;</li><li><span class="ui">Vizite</span> › <span class="ui">Consultație</span> — acuze, diagnostic, tratament; jurnalul ajunge în fișa 043/e;</li><li><span class="ui">Odontogramă</span> și <span class="ui">Parodontogramă</span> — starea dinților și a gingiilor; <span class="ui">Documente</span> — formularele de tipărit și scanările semnate;</li><li><span class="ui">Fișa 043/e</span> din capul fișei — se tipărește completată.</li></ul>
 <figure class="frame gshot"><img src="shots/guide-pacient.webp" alt="Fișa pacientului DentPilot™: plan de tratament și plăți" width="2200" height="1380" loading="lazy"></figure>
 </section>
 <section class="gs" id="rechemari"><div class="gh"><span class="gn">11</span><h2>Rechemări: pacienții revin la control</h2></div>
